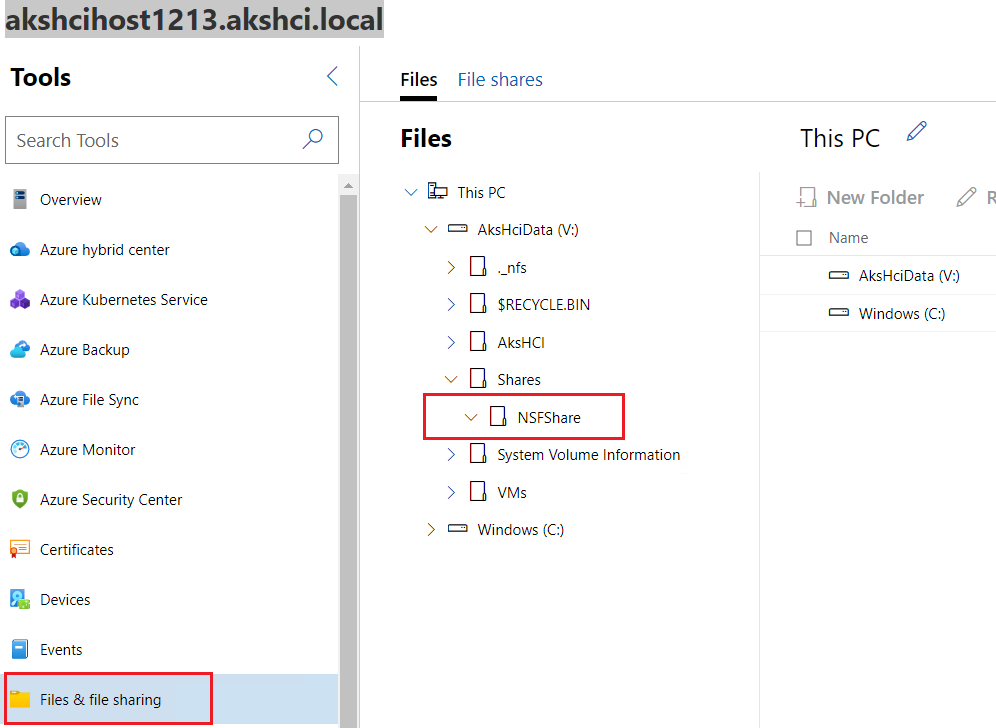
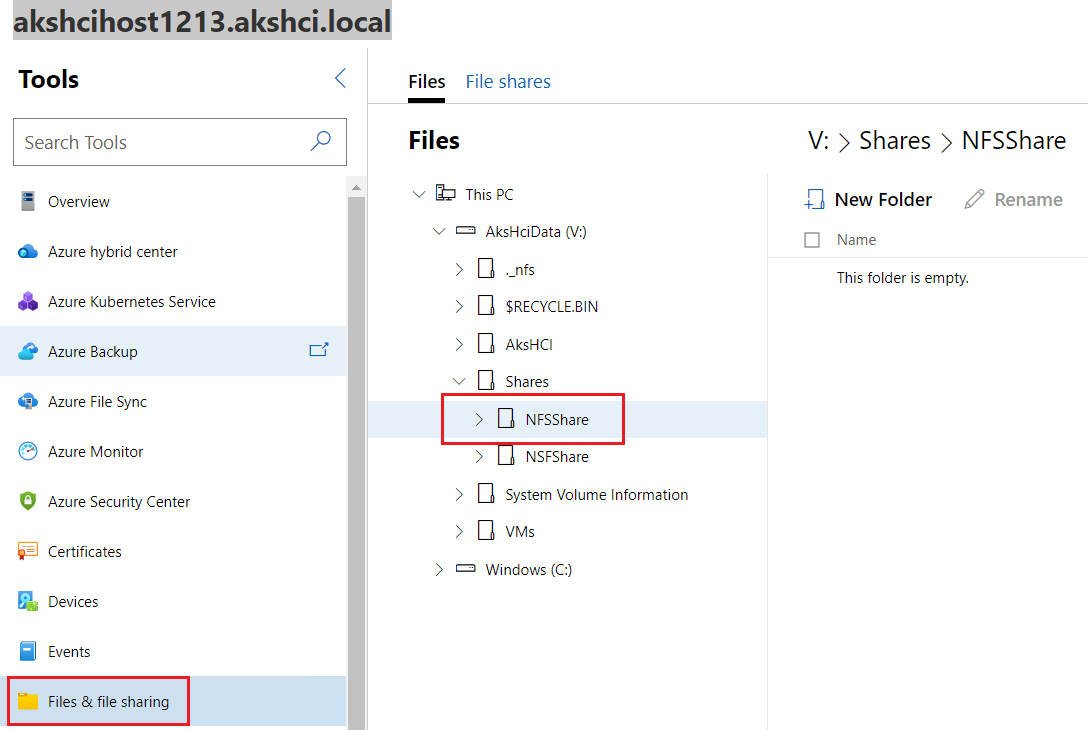
nsf share

diff --git a/README.md b/README.md
@@ -22,6 +22,7 @@ In this guide, you'll walk through the steps to run Oracle WebLogic Server on Az
   - [Connect to Azure Arc AKS](#connect-to-azure-arc-aks)
 - [Deploy WebLoigc Server with domain on a PV]()
   - [Enable NFS server for storage]()
+  - [Create Persistent Volumn]()
   - [Install Oracle WebLogic Server Kubernetes Operator]()
   - [Deploy Weblogic cluster]()
   - [Expose WebLogic cluster via Load Balancer]()
@@ -257,6 +258,8 @@ kube-system       Active   113m
 
 Before moving forward, we still have to create storage for the domain, as we will store the domain configuration to a PV.
 
+### Enable NFS server for storage
+
 This sample will enable the NFS server in the Hyper-V host, the Windows Server 2022 Azure VM. Follow this [guide](https://docs.microsoft.com/en-us/windows-server/storage/nfs/deploy-nfs) to eable NFS server and create NFS share.
 
 This sample use Server Manager to create NFS share in the Azure VM. 
@@ -277,7 +280,7 @@ Then create NFS share.
 5. On the Share Location page, select a server and select **volume V**, and select Next.
 6. On the Share Name page, specify a name for the new share, here is `NFSShare`, and select Next.
 7. On the Authentication page, specify all the authentication method. Enable **Allow unmapped user access by UID/GID**
-8. On the Share Permissions page, select All Machines and enable Allow root access.
+8. On the Share Permissions page, select **All Machines**, share permissions are **Read/Write**, and enable **Allow root access**.
 9. In Permissions, configure the type of access control you want the users to have, and select OK.
 10. On the Confirmation page, review your configuration, and select Create to create the NFS file share.
 
@@ -287,8 +290,93 @@ After the process finished, you should be able to find the file share from Windo
 
 ![Create NSF Share](resources/screenshot-nfsshare2.png)
 
-Now, we cn move on to create WebLogic cluster.
+Now, we can move on to create persistent volumn.
 
+
+### Create Persistent Volumn
+
+This sample install NFS server in the same machine of HCI infrastructure. The NFS server is `akshcihost1213.akshci.local`.
+
+Before attaching pv to the AKS cluster, we have enable the CSI driver in the HCI AKS cluster, for more information, see this [document](https://docs.microsoft.com/en-us/azure-stack/aks-hci/container-storage-interface-files#use-nfs-drivers).
+
+Now, you have to connect to the Hyper-V host, open the Azure VM using Remote Connect Desktop, with user `azureuser`.
+
+Open PowerShell from Windows Admin Center, and run the following command:
+
+```powsershell
+Install-AksHciCsiNfs -clusterName my-workload-cluster
+```
+
+After the command finished, you should find csi-nfs pods are running:
+
+```powershell
+kubectl get pod -n kube-system
+
+NAME                                              READY   STATUS    RESTARTS   AGE
+csi-nfs-controller-68b79c85c9-dtqjf               3/3     Running   0          56s
+csi-nfs-node-g8d8s                                3/3     Running   0          56s
+csi-nfs-node-h88xn                                3/3     Running   0          56s
+csi-nfs-node-tm2v5                                3/3     Running   0          56s
+... ...
+```
+
+Now let's switch to your develoment machine.
+
+Create storage class for NFS share with the following configurations, make sure the server endpoint is matched with your NFS server. You can find the sample config from [nfs-storage-class.yaml](domain-on-pv/nfs-storage-class.yaml)
+
+```YAML
+apiVersion: storage.k8s.io/v1
+kind: StorageClass
+metadata:
+  name: nfs-csi
+provisioner: nfs.csi.akshci.com
+parameters:
+  server: akshcihost1213.akshci.local # NFS server endpoint
+  share: /NFSShare # NFS share path
+reclaimPolicy: Retain
+volumeBindingMode: Immediate
+mountOptions:
+  - hard
+  - nfsvers=4.1
+```
+
+Run the following command in your WSL terminal, we assume your haven't close the AKS connection proxy.
+
+```bash
+kubectl apply -f domain-on-pv/nfs-storage-class.yaml
+```
+
+Create persistent volumn claim using the following configurations. You can find the sample config from [nfs-csi-pvc.yaml](domain-on-pv/nfs-csi-pvc.yaml)
+
+```YALM
+kind: PersistentVolumeClaim
+apiVersion: v1
+metadata:
+  name: wls-on-aks-in-hci
+  labels:
+    weblogic.domainUID: domain1
+spec:
+  storageClassName: nfs-csi
+  accessModes:
+    - ReadWriteMany
+  resources:
+    requests:
+      storage: 5Gi
+```
+
+```bash
+kubectl apply -f domain-on-pv/nfs-csi-pvc.yaml
+```
+
+Validate the PVC, make sure the status is Bound!
+
+```text
+$ kubectl get pvc
+NAME                STATUS   VOLUME                                     CAPACITY   ACCESS MODES   STORAGECLASS   AGE
+wls-on-aks-in-hci   Bound    pvc-244d98f4-318d-4777-b22e-4e2733493d97   5Gi        RWX            nfs-csi        107s
+```
+
+Now, you are able to create your WebLogic cluster with domain on the PV.
 
 
 
